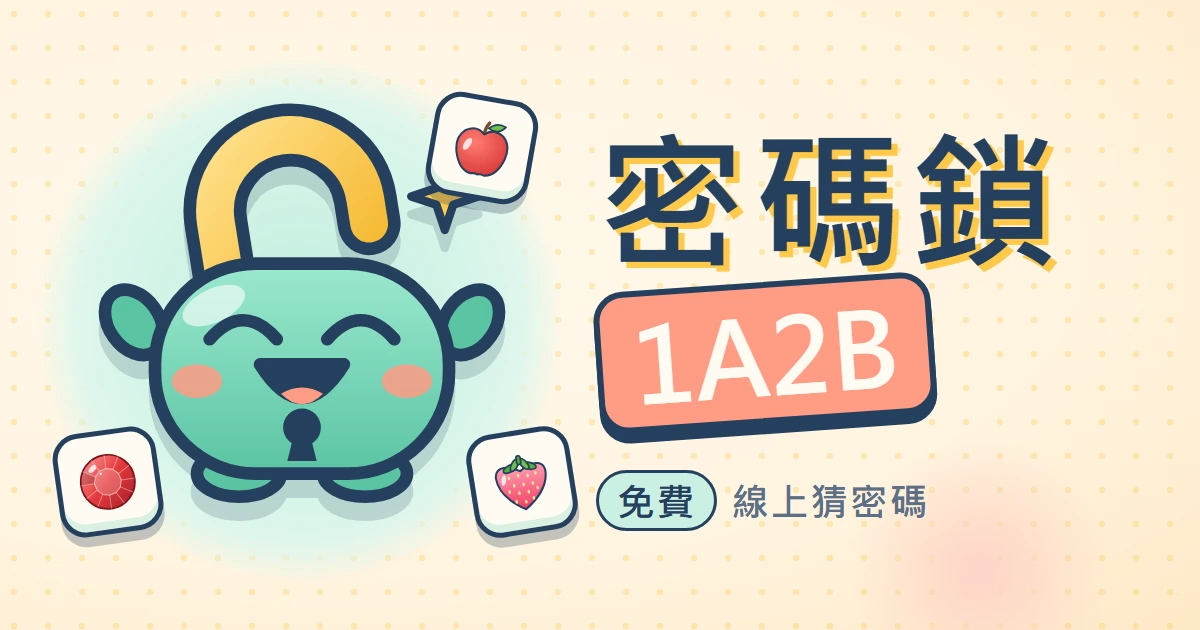
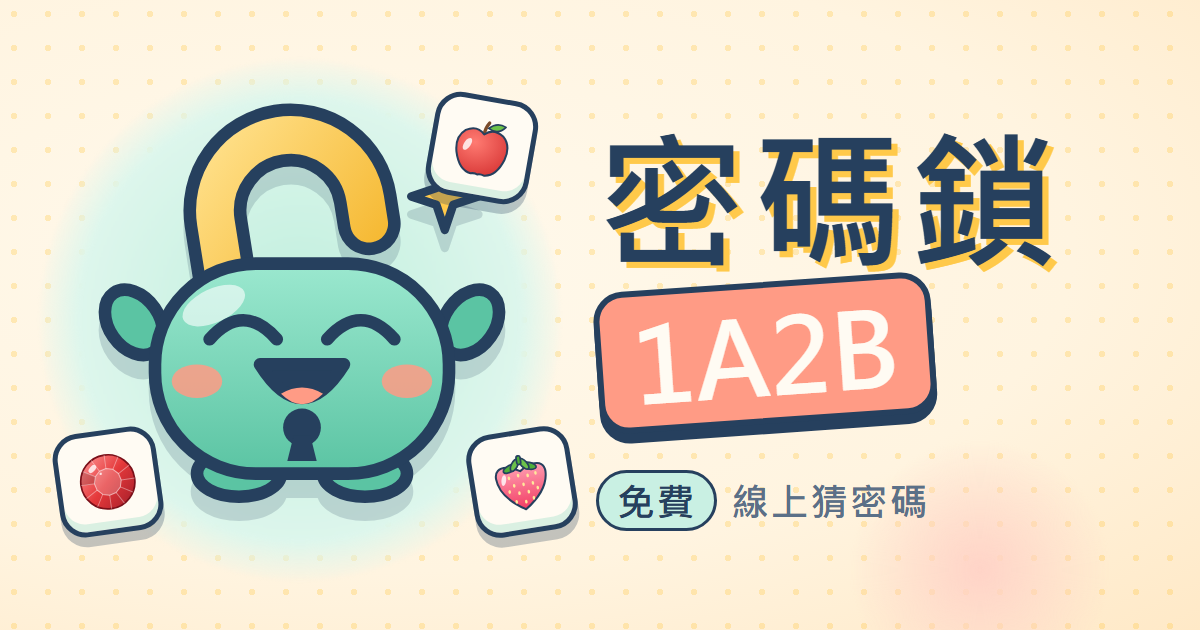
feat(seo): 分享圖改為無損 WebP、新增帶日期 PNG，注入器改用共用範本
- seo.webp／cover.webp 改為無損 VP8L，並新增 seo-20261104.png、cover-20261104.png
- inject-seo.js 與大廳共用範本一致：讀分享圖真實尺寸回報 og:image:width／height

diff --git a/scripts/inject-seo.js b/scripts/inject-seo.js
@@ -18,7 +18,19 @@ function validate(cfg, gaId) {
   if (cfg.title.length > 40 || cfg.description.length < 40 || cfg.description.length > 120) throw new Error('SEO 文案長度錯誤');
   if (!/^G-[A-Z0-9]+$/.test(gaId)) throw new Error('GA_MEASUREMENT_ID 格式錯誤');
   if (cfg.ogImage && !/^https:\/\//.test(cfg.ogImage)) throw new Error('ogImage 必須是 HTTPS 網址');
-  if (cfg.ogImage && !/\/assets\/images\/(seo|cover)\.webp$/.test(cfg.ogImage)) throw new Error('ogImage 必須指向 assets/images 下的 seo.webp 或 cover.webp');
+  if (cfg.ogImage && !/\/assets\/images\/(?:cover|seo)\.webp$/.test(cfg.ogImage)) throw new Error('ogImage 必須指向 WebP 遊戲封面或 SEO 分享圖');
+}
+
+// 讀 WebP 檔頭的實際尺寸（VP8／VP8L／VP8X），og:image:width／height 才不會和真實圖片不符。
+function webpSize(file) {
+  let b;
+  try { b = fs.readFileSync(file); } catch (e) { return null; }
+  if (b.length < 30 || b.toString('ascii', 0, 4) !== 'RIFF' || b.toString('ascii', 8, 12) !== 'WEBP') return null;
+  const kind = b.toString('ascii', 12, 16);
+  if (kind === 'VP8X') return { width: 1 + b.readUIntLE(24, 3), height: 1 + b.readUIntLE(27, 3) };
+  if (kind === 'VP8L') { const v = b.readUInt32LE(21); return { width: (v & 0x3fff) + 1, height: ((v >> 14) & 0x3fff) + 1 }; }
+  if (kind === 'VP8 ') return { width: b.readUInt16LE(26) & 0x3fff, height: b.readUInt16LE(28) & 0x3fff };
+  return null;
 }
 
 function inject(root, env = process.env) {
@@ -31,8 +43,11 @@ function inject(root, env = process.env) {
   if (!/<title\b[^>]*>[\s\S]*?<\/title>/i.test(html)) throw new Error('index.html 缺少 title');
   const descriptionTag = html.match(/<meta\b(?=[^>]*\bname=["']description["'])[^>]*>/i);
   const descriptionKey = descriptionTag && descriptionTag[0].match(/data-i18n-content="([^"]+)"/);
-  // SEO 分享圖 1200×630，cover 1200×675
-  const imageHeight = cfg.ogImage ? (/\/seo\.webp$/.test(cfg.ogImage) ? '630' : '675') : '';
+  // 優先用 public/assets/images 裡圖檔的實際尺寸；檔案不在（例如只複製設定檔做檢查）時回到 1200×675。
+  const imageFile = cfg.ogImage && cfg.ogImage.match(/\/(assets\/images\/(?:cover|seo)\.webp)$/);
+  const size = (imageFile && webpSize(path.join(root, 'public', imageFile[1]))) || { width: 1200, height: 675 };
+  const imageWidth = cfg.ogImage ? String(size.width) : '';
+  const imageHeight = cfg.ogImage ? String(size.height) : '';
   // 保留界線，重複建置不會累積標籤。所有檢查完成才寫入產物。
   html = html.replace(/<!--SEO:HEAD-->[\s\S]*?<!--SEO:END-->/, MARK)
     .replace(/<meta\b(?=[^>]*\bname=["']description["'])[^>]*>\s*/gi, '')
@@ -62,7 +77,7 @@ function inject(root, env = process.env) {
     '<meta property="og:url" content="' + esc(cfg.siteUrl) + '">',
     cfg.ogImage && '<meta property="og:image" content="' + esc(cfg.ogImage) + '">',
     cfg.ogImage && '<meta property="og:image:type" content="image/webp">',
-    cfg.ogImage && '<meta property="og:image:width" content="1200">',
+    cfg.ogImage && '<meta property="og:image:width" content="' + imageWidth + '">',
     cfg.ogImage && '<meta property="og:image:height" content="' + imageHeight + '">',
     cfg.ogImage && '<meta property="og:image:alt" content="' + esc(cfg.ogImageAlt || cfg.title) + '">',
     '<meta name="twitter:card" content="' + (cfg.ogImage ? 'summary_large_image' : 'summary') + '">',
